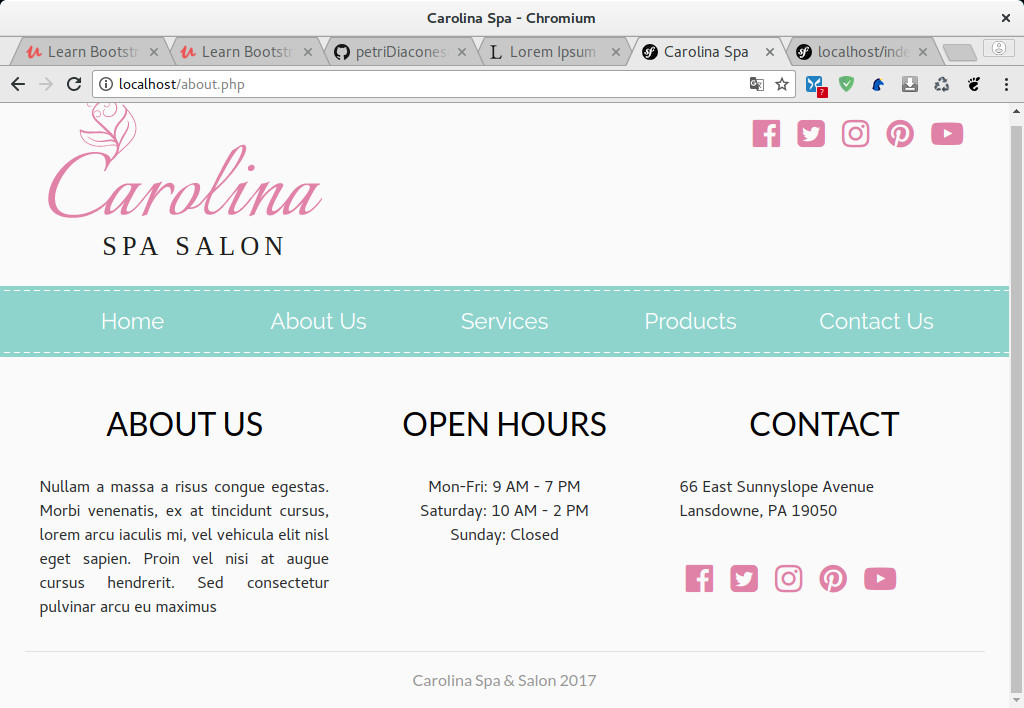
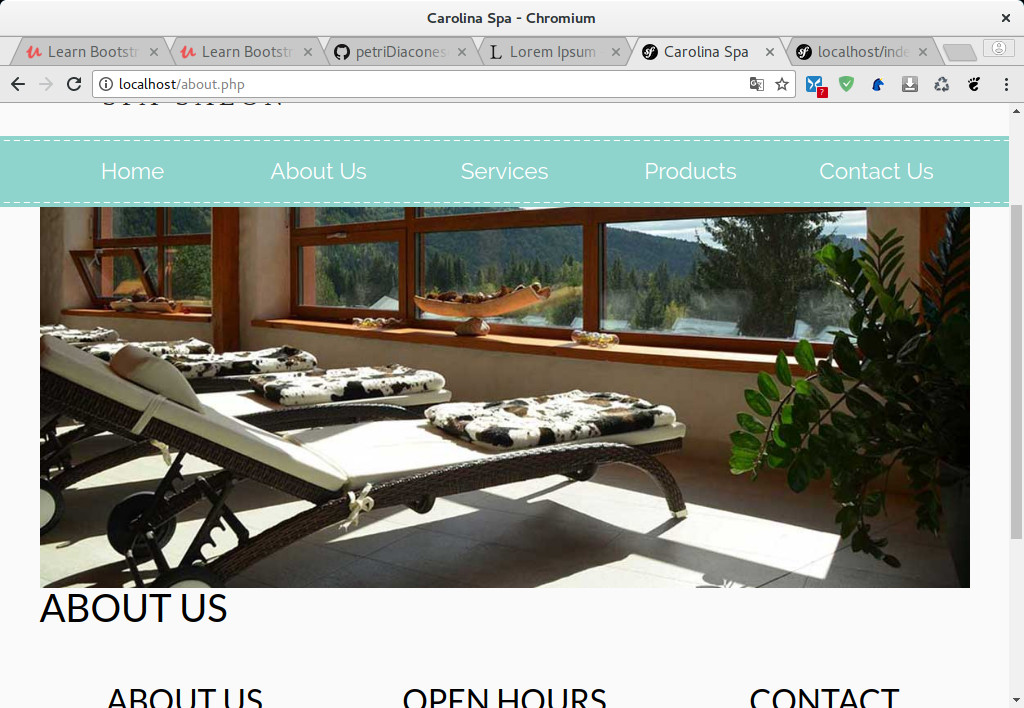
Add some padding space with pt-4 class where p stands for padding and t for top

diff --git a/about.php b/about.php
@@ -3,7 +3,7 @@
   include 'templates/navigation.php';
   $title = 'About Us';
 ?>
-<div class="container">
+<div class="container pt-4">
   <div class="row">
     <div class="col-12 hero">
       <img src="img/about_us.jpg" alt="" class="img-fluid"/>
